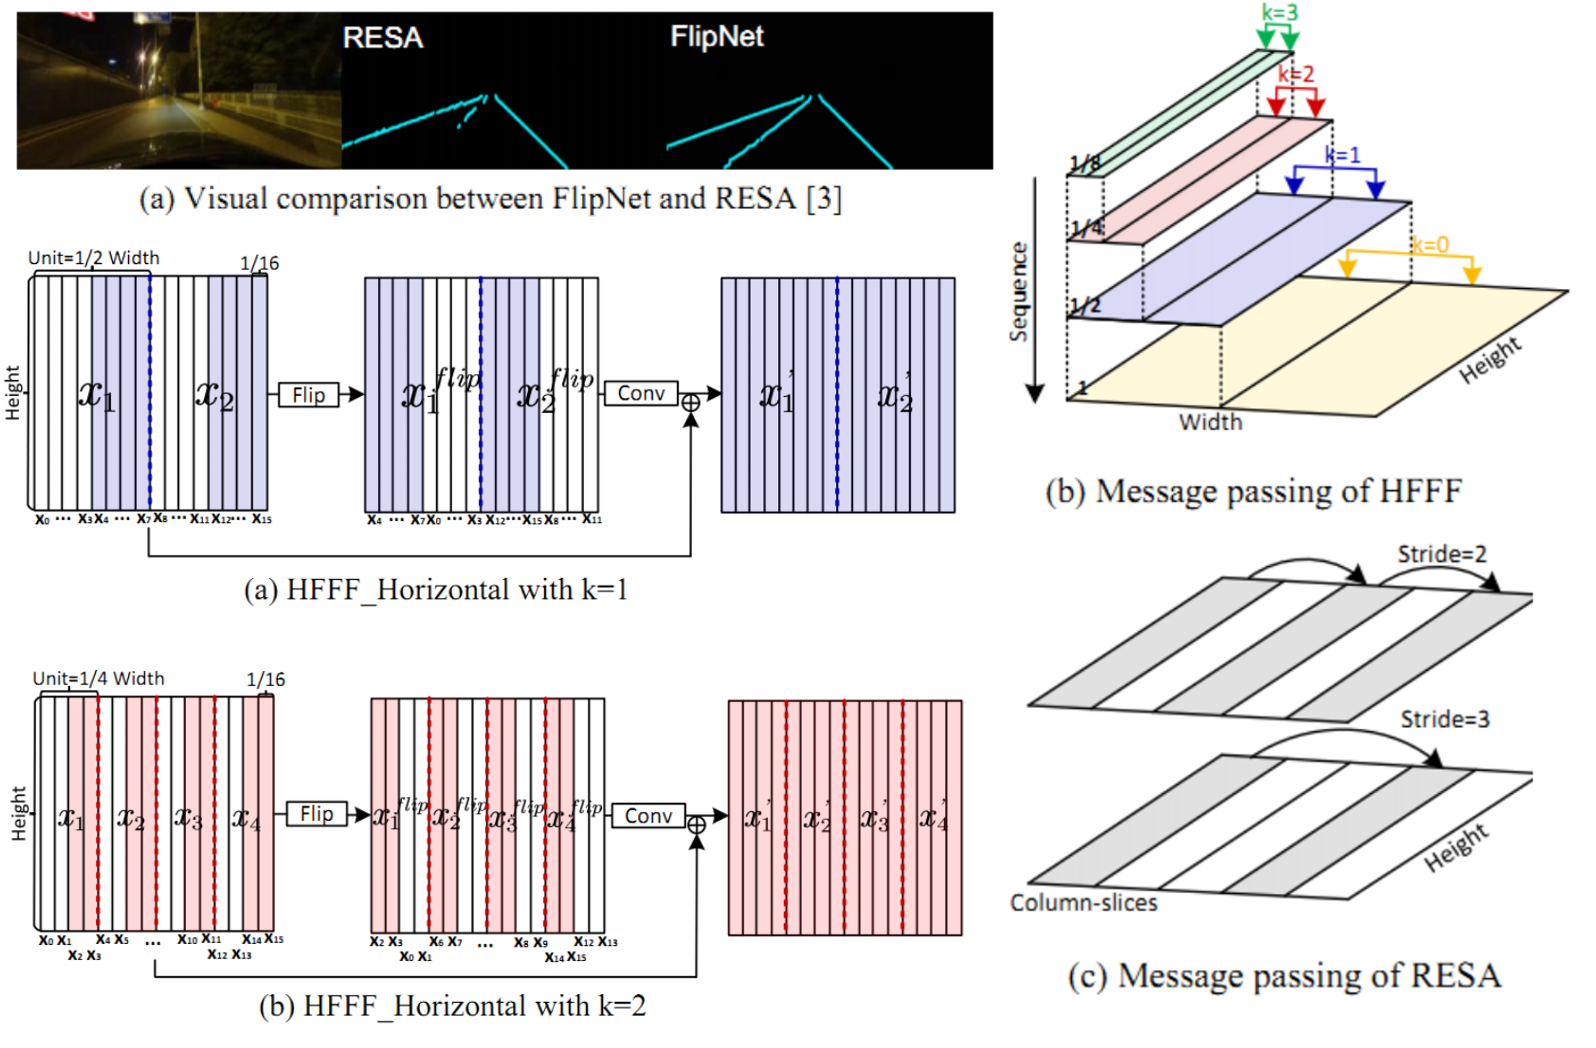
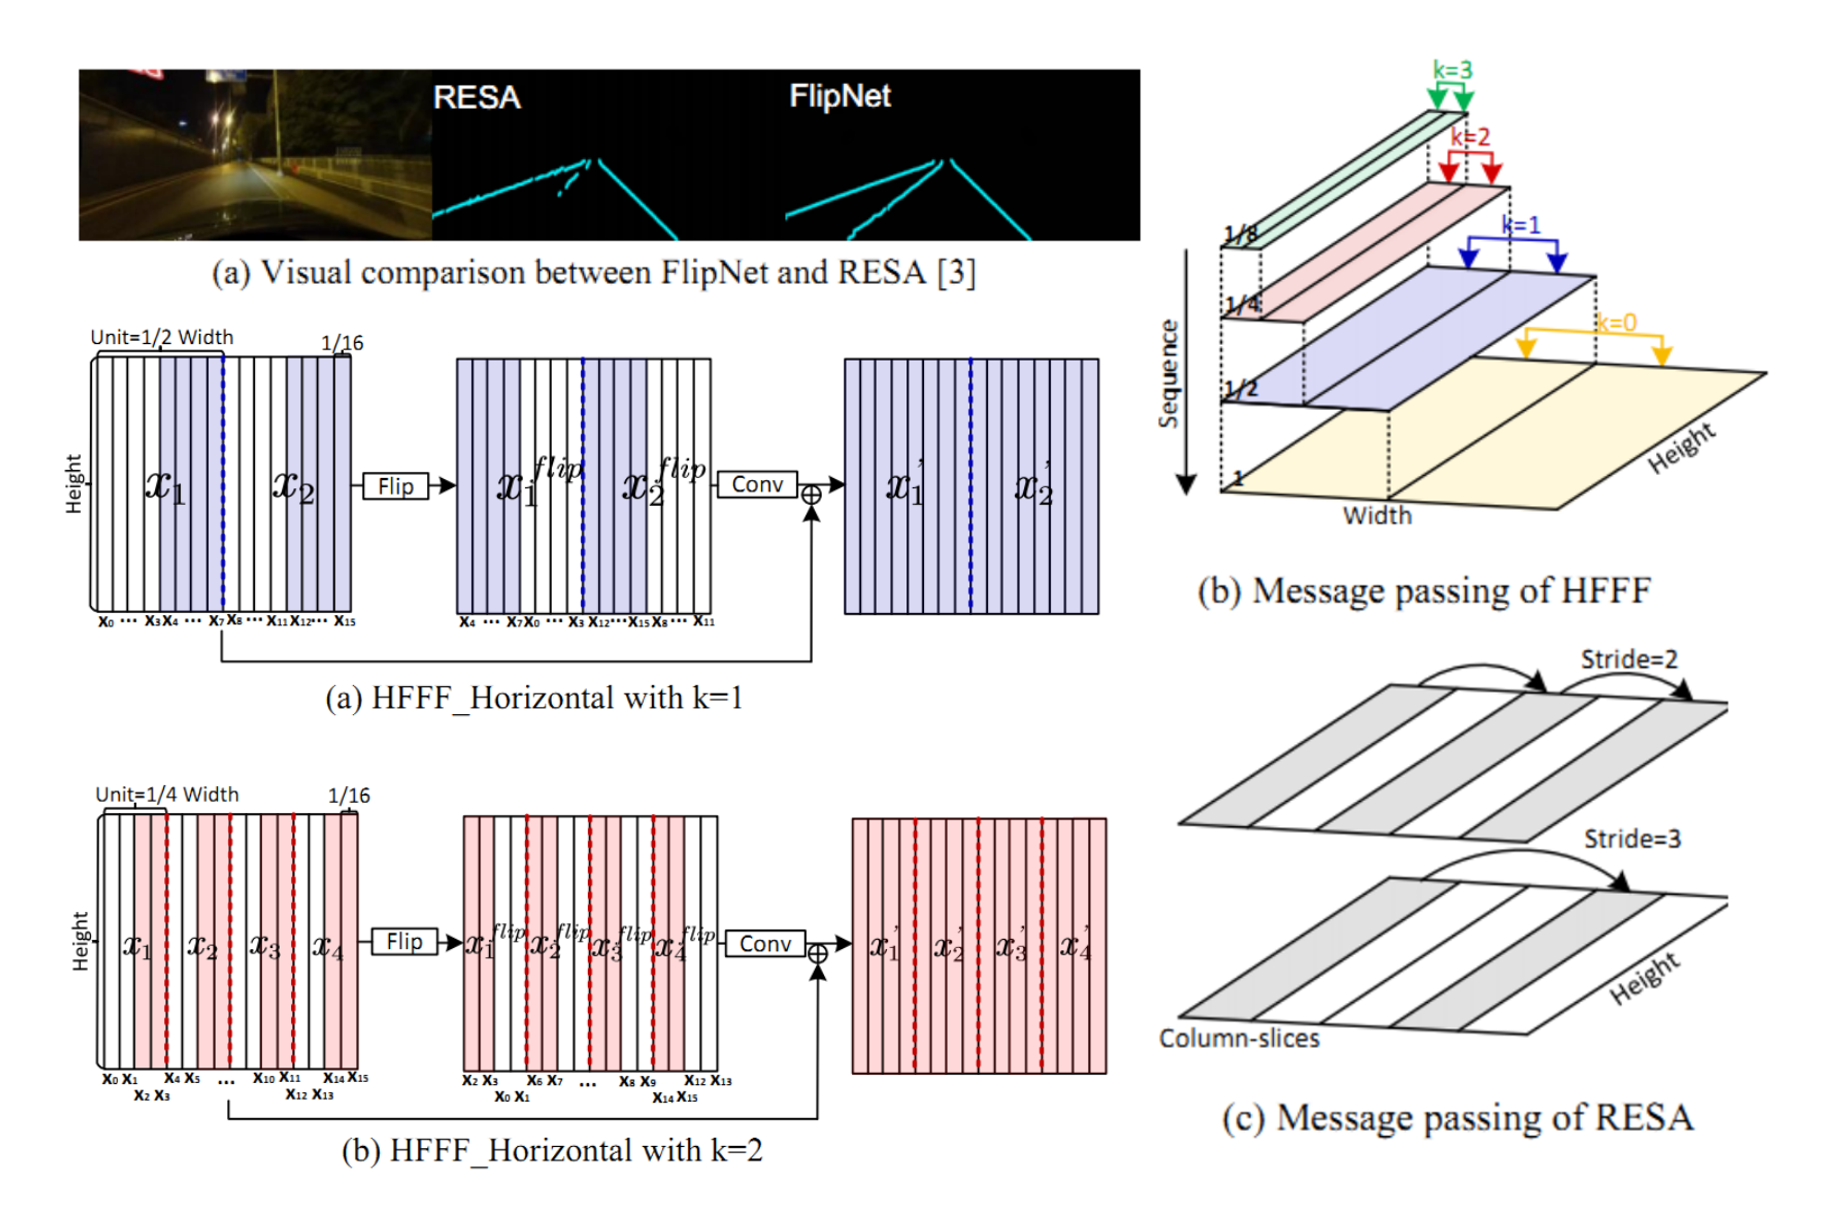
Replace FlipNet thumbnail; add venue-abbr labels overlaid on publication previews

diff --git a/_sass/_themes.scss b/_sass/_themes.scss
@@ -313,6 +313,32 @@ html[data-theme="dark"] .social .contact-icons a i::before {
   }
 }
 
+// Overlay the venue label (bib `abbr` field) on the top-left corner of the thumbnail.
+.publications ol.bibliography li .col-sm-2.abbr {
+  position: relative;
+}
+.publications ol.bibliography li .col-sm-2.abbr abbr.badge,
+.publications ol.bibliography li .col-sm-2.abbr .badge {
+  position: absolute;
+  top: 6px;
+  left: 6px;
+  z-index: 2;
+  margin: 0;
+  padding: 2px 7px;
+  font-size: 0.62rem;
+  font-weight: 600;
+  line-height: 1.35;
+  letter-spacing: 0.02em;
+  color: #fff;
+  background-color: var(--global-theme-color);
+  border-radius: 5px;
+  box-shadow: 0 1px 3px rgba(0, 0, 0, 0.35);
+}
+.publications ol.bibliography li .col-sm-2.abbr abbr.badge a,
+.publications ol.bibliography li .col-sm-2.abbr .badge a {
+  color: #fff;
+}
+
 // ===== 自定义背景：transparenttextures 纹理（已本地自托管，非外链）=====
 // 浅色用 blizzard，深色用 cartographer；图案已下载到 /assets/img，避免依赖外部站点。
 // 路径相对 /assets/css/main.css，故用 ../img/。